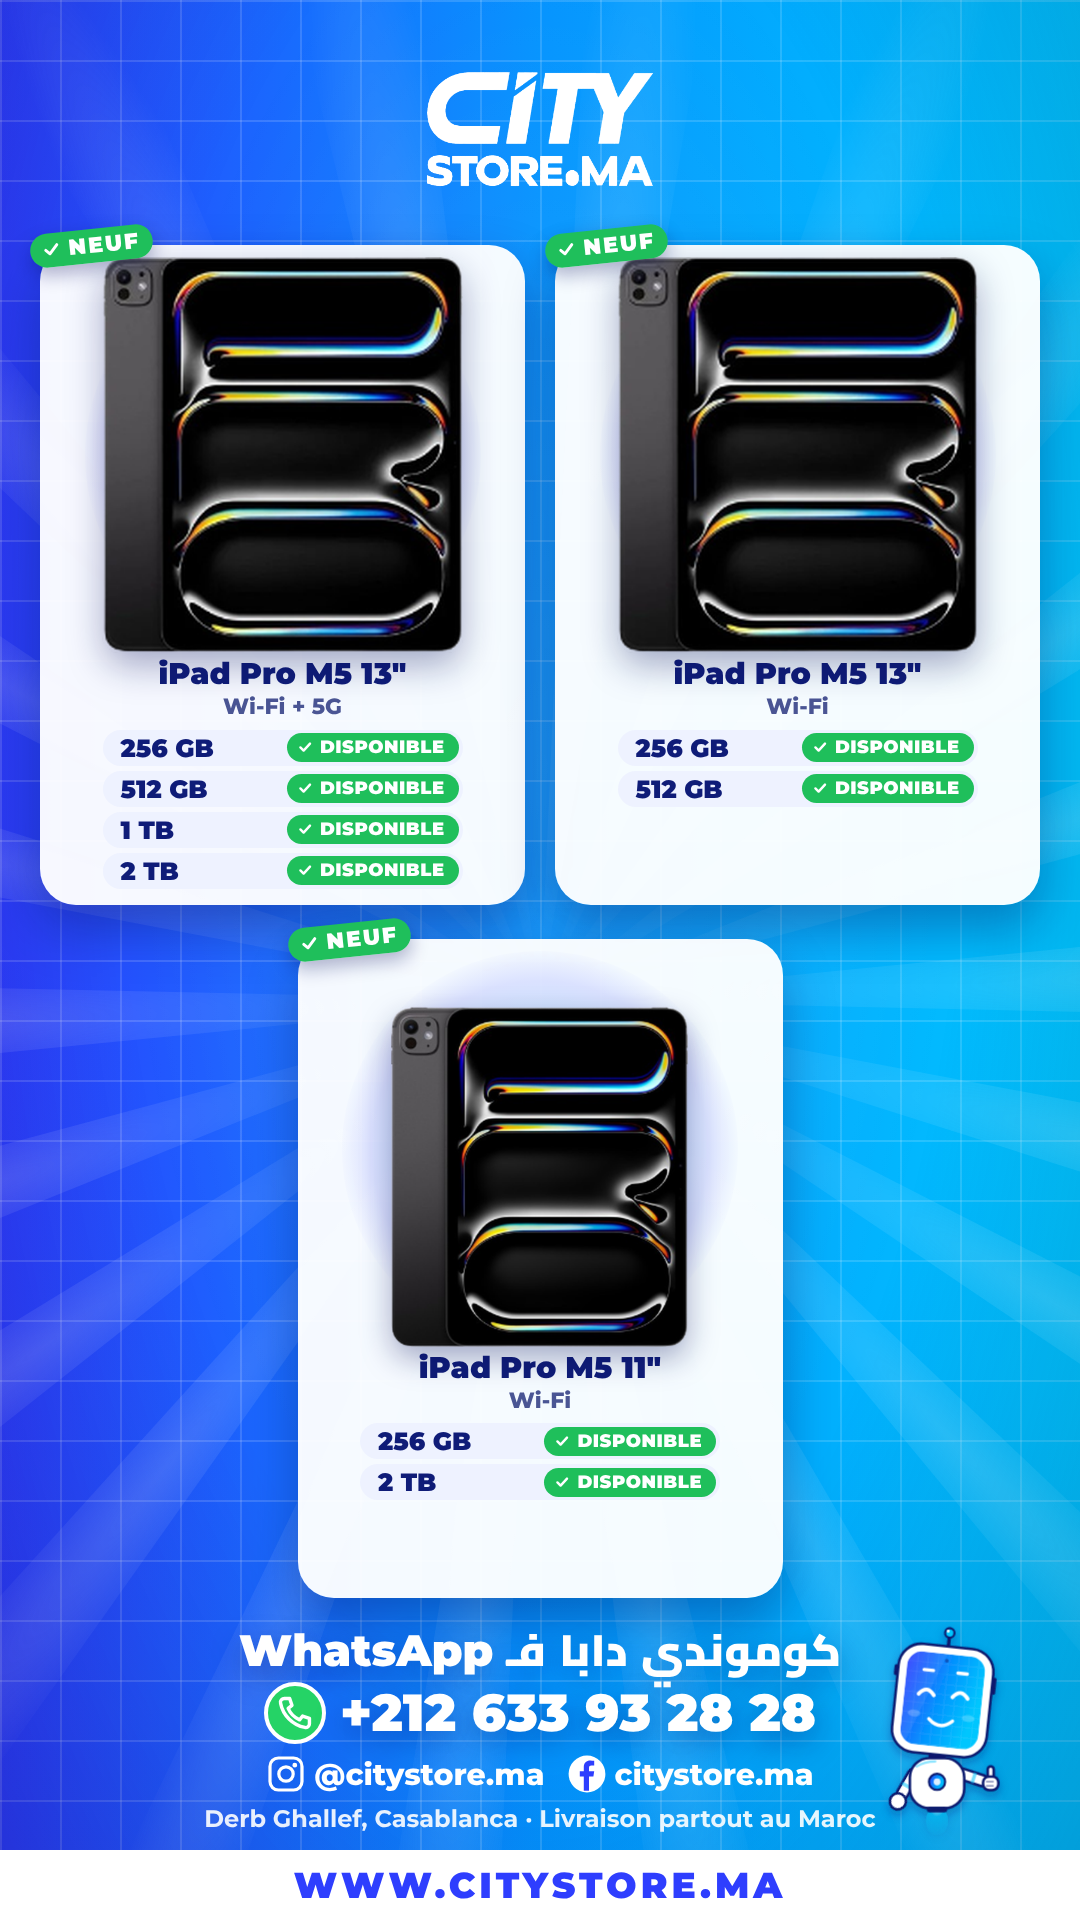
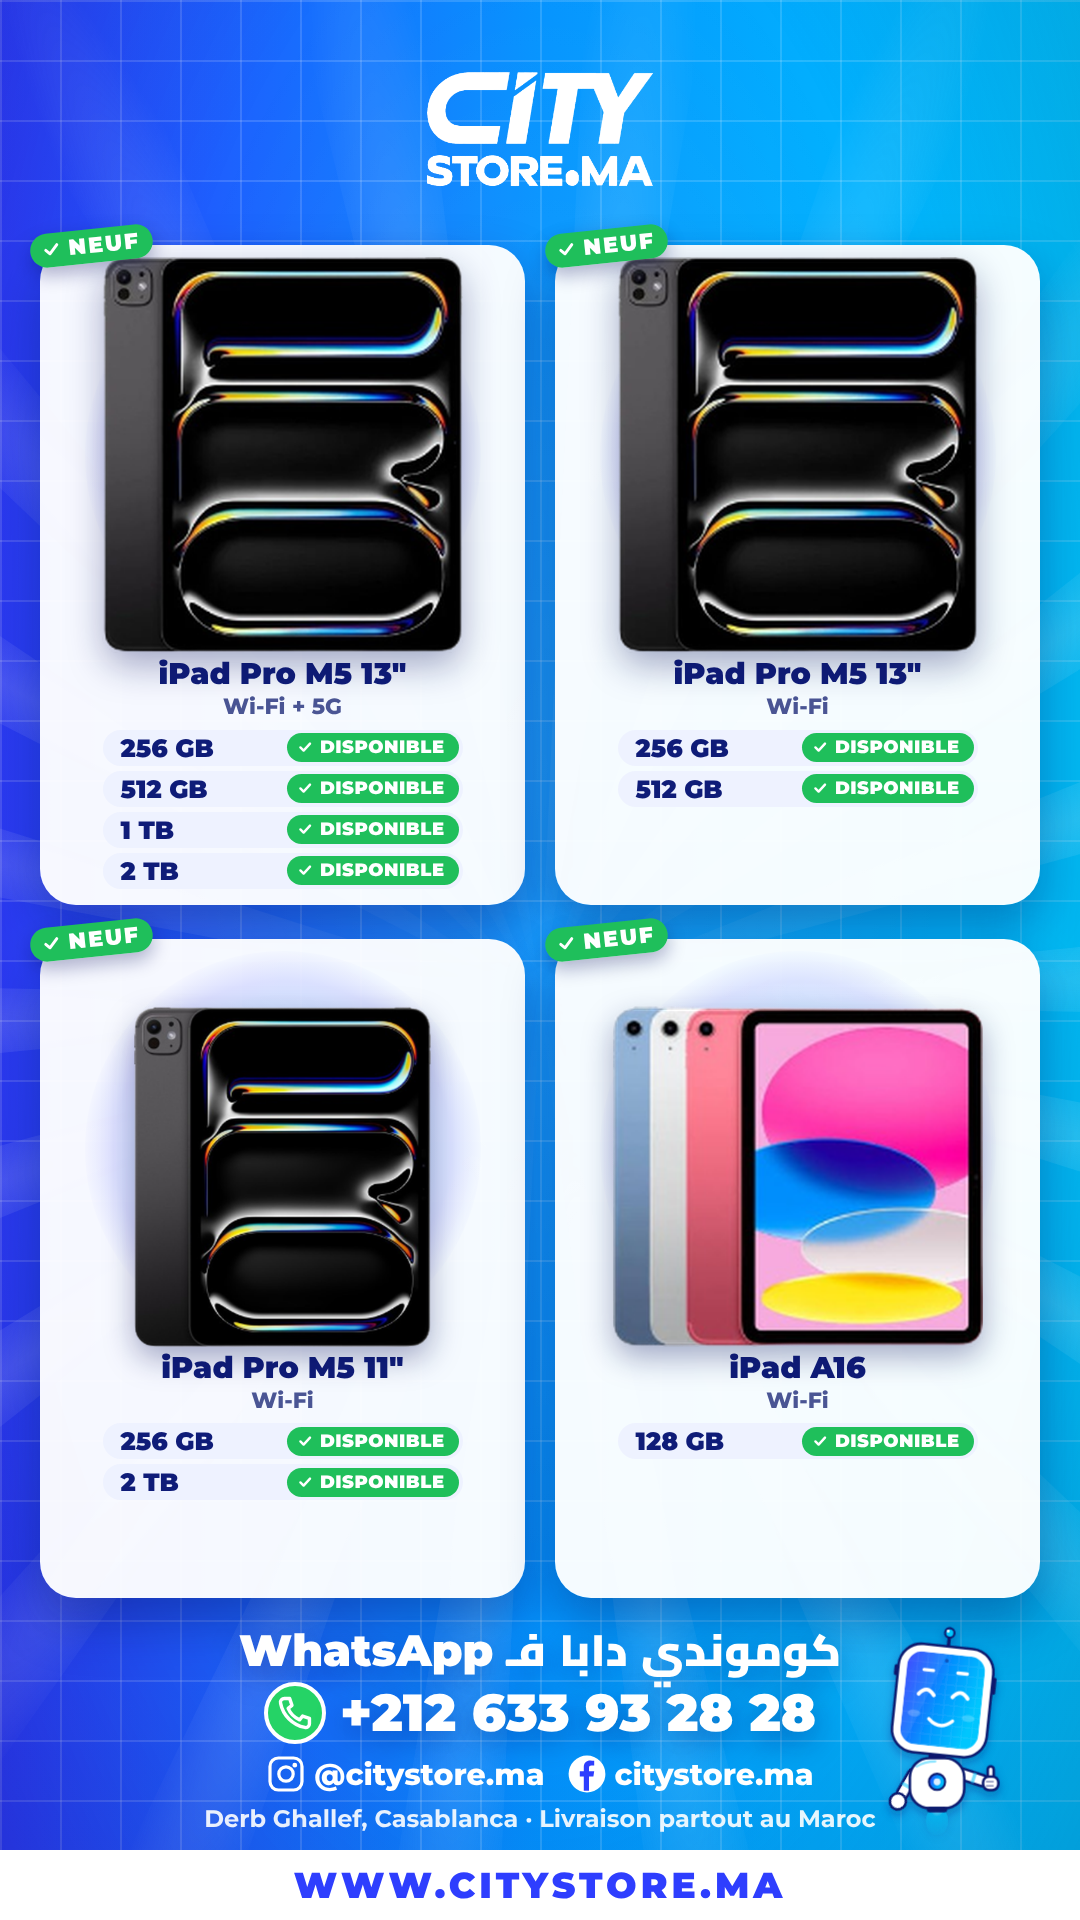
iPads story: add iPad A16 Wi-Fi 128 GB
Claude-Session: https://claude.ai/code/session_01B6UvVnyVQqoyQ1GwELGaCV

Changed region(s): [[0.0306, 0.4688, 0.9778, 0.875]]

diff --git a/src/pricelist/lists.ts b/src/pricelist/lists.ts
@@ -33,6 +33,7 @@ export const PRICE_LISTS: Record<string, PriceListProps> = {
       { name: 'iPad Pro M5 13"', spec: "Wi-Fi + 5G", img: "pricelist/ipads/13.png", condition: "neuf", stock: ["256 GB", "512 GB", "1 TB", "2 TB"] },
       { name: 'iPad Pro M5 13"', spec: "Wi-Fi", img: "pricelist/ipads/13.png", condition: "neuf", stock: ["256 GB", "512 GB"] },
       { name: 'iPad Pro M5 11"', spec: "Wi-Fi", img: "pricelist/ipads/11.png", scale: 0.86, condition: "neuf", stock: ["256 GB", "2 TB"] },
+      { name: "iPad A16", spec: "Wi-Fi", img: "pricelist/ipads/a16.png", scale: 0.86, condition: "neuf", stock: ["128 GB"] },
     ],
   },
   watches: {

diff --git a/assets/pricelist/ipads/SOURCES.md b/assets/pricelist/ipads/SOURCES.md
@@ -3,3 +3,4 @@ Transparent PNGs supplied by City Store (originals in `src/`), trimmed and upsca
 - `ipadpro_m5_13_spaceblack.png` -> `public/pricelist/ipads/13.png`: both 13" cards.
 - `ipadpro_m5_11_spaceblack.png` -> `public/pricelist/ipads/11.png`: the 11" card (drawn at 0.86x so it reads smaller).
 Sizes as given by City Store: 13" Wi-Fi + 5G 256 GB / 512 GB / 1 TB / 2 TB; 13" Wi-Fi 256 GB / 512 GB; 11" Wi-Fi 256 GB / 2 TB.
+- `ipad_a16_four_colours.png` (301 px, Blue / Silver / Pink / Yellow) -> `public/pricelist/ipads/a16.png` (trimmed, upscaled 3x, drawn at 0.86x). iPad A16 Wi-Fi 128 GB.
